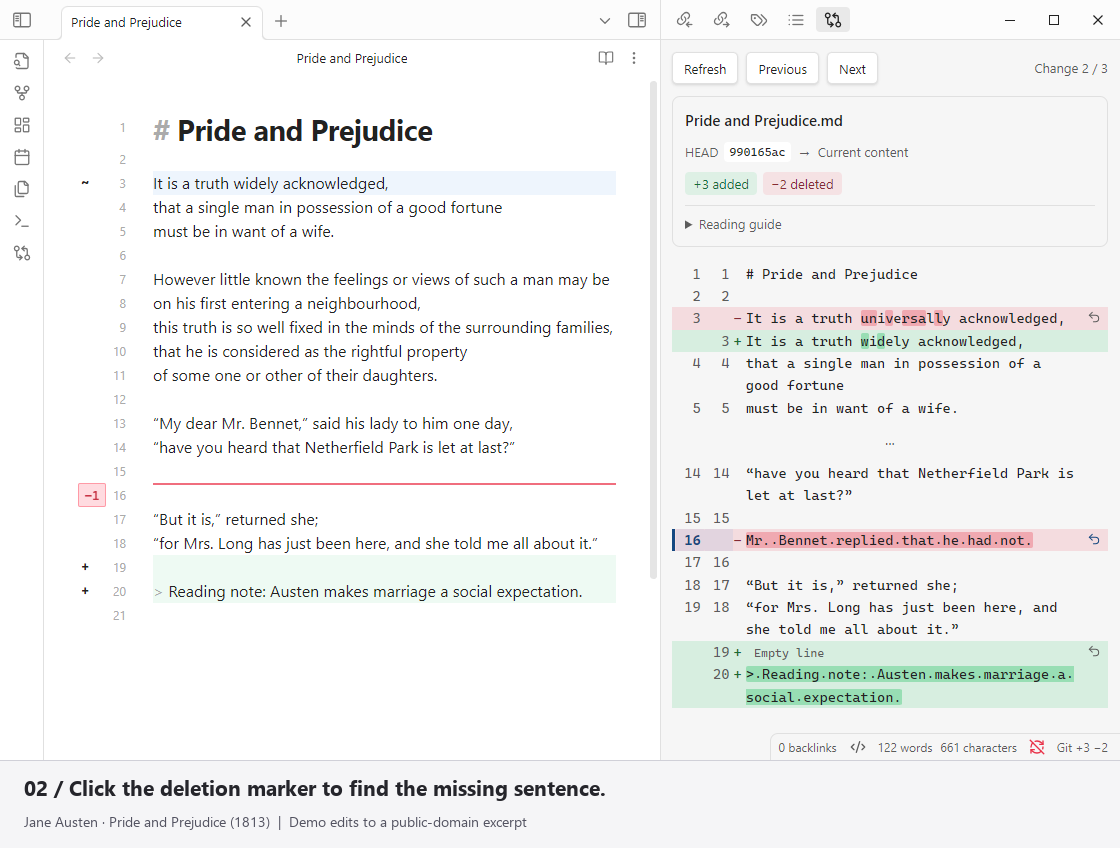
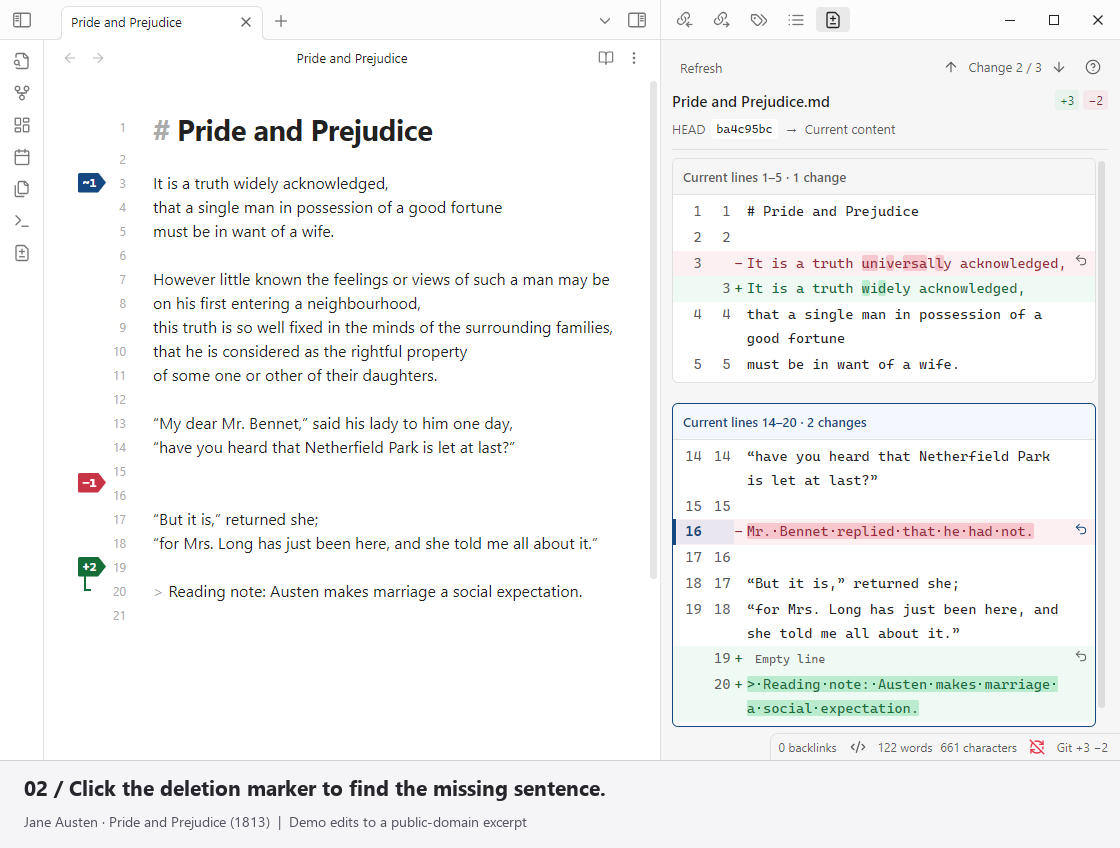
Release 0.4.0

diff --git a/scripts/record-demo.py b/scripts/record-demo.py
@@ -32,7 +32,7 @@ SCENES = [
 
 
 def git(vault, *command):
-    return subprocess.run(['git', *command], cwd=vault, check=True, capture_output=True, text=True).stdout.strip()
+    return subprocess.run(['git', *command], cwd=vault, check=True, capture_output=True, text=True, encoding='utf-8').stdout.strip()
 
 
 def stop_owned_process(process):

diff --git a/docs/personal-review-plan.md b/docs/personal-review-plan.md
@@ -7,7 +7,7 @@
 当前已完成需求文档及第一批审阅核心/存储代码，**尚未接入插件入口，不是可直接使用的个人版**。所有阶段完成后，仍需隔离 Obsidian vault 验证，不能以单元测试代替真实宿主验证。
 
 - 分支：`personal/review-workflow`，基线为 `208f410`（0.3.0）。
-- 未经明确授权，不自动 commit/push/合并主分支/tag/release，不调用社区发布工作流。个人分支检查点 `d3cc5a3` 已获授权提交、推送；范围旗标、差异配色与计数文案完成后，用户进一步授权提交、推送个人分支，再合并并推送 `main`。此次不创建标签或 release，完整审阅/GitLab 开发仍暂停。
+- 未经明确授权，不自动 commit/push/合并主分支/tag/release，不调用社区发布工作流。个人分支检查点 `d3cc5a3` 已获授权提交、推送；范围旗标、差异配色与计数文案完成后，用户进一步授权提交、推送个人分支，再合并并推送 `main`。合并完成后，用户已体验并进一步授权将现有 HEAD 对比界面改进作为 0.4.0 社区版发布（含版本提交、标签、签名草稿与正式发布）。完整审阅/GitLab 开发仍暂停，不纳入已开放功能。
 - 不升级版本号、修改最低宿主版本或依赖，除非实现确实需要并说明理由。
 - 不把产物安装到用户实际 vault，不覆盖现有插件安装。先使用隔离测试 vault。
 - 一次只完成一个可验证阶段，不并行修改同一工作区；本计划不要求子代理。
@@ -50,7 +50,7 @@
 - 已修复末尾竖列圆点：原连续空格伪元素脱离正文流、独立换行导致溢出。改为在空格自身的行片段绘制圆点，长空格正常折行，Tab 保留单个不换行箭头；不裁切、不过滤，复制仍为原始空格/Tab。不是恢复表格排版分类方案。
 - 检查点提交时的 `npm run check`：16 个文件 / **217 项测试**通过。当时中英文隔离宿主各 **36 项检查**通过，包含 280/440px 深浅主题、区块边界、三种模式下的标题/行号/前后导航、键盘焦点、正文选区、联动开关、超长项、纯正文复制和空格标记，以及原有还原/撤销、帮助与独立窗口检查。另有 **36 组 Chromium 空白标记布局回归**（280/440/480px、13/18px、中英文/Tab/长串空格）；长文 Live Preview 输入/外部更新的正文宽度和左边界变化为 **0px**。
 - 阅读模式测试等待宿主渲染就绪：切换模式的 Promise 完成不代表排版/滚动恢复已完成。早期切换后立即点击曾出现滚动偏移，不计为通过；最终验证不保证“模式切换尚未完成时同时导航”的竞争场景。未添加强制重复居中的定时器或私有渲染器补丁。
-- 证据及模式切换、自动化窗口激活/关闭的验证边界见 [demo.md](demo.md#personal-compact-panel-checks)。未安装真实 vault 或发布；后续已获用户授权提交、推送个人分支检查点，这些检查仍不是完整审阅工作流 A01–A28 验收。
+- 证据及模式切换、自动化窗口激活/关闭的验证边界见 [demo.md](demo.md#personal-compact-panel-checks)。该阶段未安装真实 vault 或发布；后续已获用户授权提交、推送个人分支检查点，这些检查仍不是完整审阅工作流 A01–A28 验收。
 
 ### 范围旗标（检查点后的本地调整）
 
@@ -64,14 +64,14 @@
 - 按用户截图采用红删/绿增文字，上下文仍为正常主题文字色；修改行继续旧红/新绿，字词底色保持局部强调。背景仍跟随 Obsidian 深浅主题，不照搬截图整块深绿背景或红色标注框。左侧正文不染色。
 - 保留 `+`/`−`、两列行号、原字号、选区复制、当前项蓝色导航强调，以及字词高亮开关。关闭字词底色后，红绿文字依然保留；阅读说明已同步中英文语义。
 - 该配色阶段 `npm run check` **224 项测试**通过；中英文隔离宿主各 **41 项检查**，涵盖 280/440px、源码/Live Preview 旗标、原生表格/折叠、空文档、复制/还原/撤销及独立窗口。默认浅色/深色的普通行、当前行及字词底色上，正文最小对比度分别约 **4.81:1 / 4.58:1**。不宣称任意第三方主题均通过。
-- 空白标记 **36 组布局回归**通过；最终长文输入/外部更新的正文宽度和左边界变化仍为 **0px**。证据目录见 [demo.md](demo.md#range-flags-and-diff-text-colors)。验收使用隔离 vault；随后用户已授权本轮提交、推送并合并 `main`，不包含安装真实 vault 或发布。
+- 空白标记 **36 组布局回归**通过；最终长文输入/外部更新的正文宽度和左边界变化仍为 **0px**。证据目录见 [demo.md](demo.md#range-flags-and-diff-text-colors)。验收使用隔离 vault；后续提交、推送与合并 `main` 已完成，现有界面改进已进一步获授权随 0.4.0 社区版发布，不安装真实 vault。
 
 ### 导航计数与区块标题
 
 - 右上角明确显示 `改动 1 / 3`（英文 `Change 1 / 3`）。标题去掉另一套区块编号，改为 `当前 109–116 行 · 2 处改动`；纯删除显示 HEAD 行范围。统计独立改动项，不统计增删行数。
 - 不拆分阅读区块、不合并操作范围。缓存行号偏移、语言切换和正文刷新会同步更新标题；保留选区期间仍展示旧快照的计数，并禁用过期入口。中英文帮助、tooltip/aria 与单复数文案同步。
 - 最新 `npm run check` **225 项测试**通过；中英文隔离宿主各 **42 项检查**，验证三处改动分为两个区块时逐项导航、单项还原，以及 280/440px 深浅主题下控件不重叠。常规头部高度仍为 117.5px，无额外布局/CSS调整。
-- 证据：英文 `.test-vault/host-iptw2fpn/`、中文 `.test-vault/host-eldsowom/`，含 `change-counts.png`。此次提交、推送与合并 `main` 已获用户授权；未安装真实 vault，不创建标签或发布。
+- 证据：英文 `.test-vault/host-iptw2fpn/`、中文 `.test-vault/host-eldsowom/`，含 `change-counts.png`。此次提交、推送与合并 `main` 已完成；现有功能已进一步获授权随 0.4.0 社区版发布，仍不安装真实 vault。
 
 ### 已验证的开发基线
 
@@ -240,7 +240,7 @@ npm test
 npm run check
 ```
 
-该命令包含 lint、测试、类型检查、构建和本地 release 产物一致性检查，**本身不推送或发布**。不设置发布标签、不调用 release workflow。若依赖不变，不无故重写 lockfile。
+该命令包含 lint、测试、类型检查、构建和本地 release 产物一致性检查，**本身不推送或发布**。完整审阅开发默认不设置发布标签、不调用 release workflow；本轮另获授权的 0.4.0 社区发布按仓库发布规范执行，只包含已启用的 HEAD 对比功能。若依赖不变，不无故重写 lockfile；此次仅为修复开发工具安全告警，定向更新 `source-map-js` 补丁。
 
 ### 隔离宿主验证
 

diff --git a/docs/releases/0.4.0.md b/docs/releases/0.4.0.md
@@ -1,0 +1,36 @@
+# 0.4.0 — Clearer diff markers and navigation
+
+## Highlights
+
+- **Range flags in the editor:** green `+n` and blue `~n` mark current added/modified line ranges; red `−n` marks a deletion boundary. No full-width deletion rule or source-text tint. A fixed 32px gutter keeps source wrapping stable during refreshes.
+- **Clearer diff text:** red old text, green added text, normal context, and stronger local word highlights in both default themes. Font-size and whitespace/highlight preferences remain available.
+- **More readable sidebar:** compact controls, bordered reading groups and an on-demand reading guide. Long whitespace markers no longer spill outside their rows.
+- **Explicit change counts:** navigation shows `Change 1 / 3`; group headings show a line range and their contained change count. Three changes can share two groups without combining their actions.
+- **Precise navigation:** previous/next, group headings and change line-number buttons reveal the selected change. Source navigation respects the following preference and current viewing mode; body text remains selectable for clean Markdown copying.
+
+## Safety and compatibility
+
+- Desktop Obsidian **1.8.0+** and local Git are still required. No runtime dependency or minimum-host-version change. The development-only `source-map-js` dependency is patched to 1.2.2.
+- Git operations remain read-only. Per-change restoration retains preview/confirmation, cancellation, fresh baseline/buffer checks and native editor undo.
+- This release compares with **local Git HEAD**. Accepted-baseline review and GitLab integration are not enabled.
+- Rendered tables and folded blocks use a first-change flag rather than an inaccurate internal range rail; the panel retains all independent changes and exact ranges. No automatic folding or content filtering is introduced.
+
+## Validation
+
+- 225 automated tests, lint, strict type checking, build and release consistency checks.
+- 42 isolated Obsidian checks per language (English and Chinese), including navigation, copying, restoration/undo and narrow light/dark layouts.
+- 36 whitespace-layout cases; covered long-document and large-deletion fixtures retain stable source width/left edge.
+- Default-theme text contrast is checked on regular, selected and changed-word backgrounds. Third-party themes and navigation concurrent with an unfinished mode switch remain outside that guarantee.
+- Production dependency audit reports no known vulnerabilities. Three moderate development-chain findings remain around the SDK's Moment dependency; these packages are not bundled into the plugin. The high-severity development-only source-map finding is patched.
+
+---
+
+## 中文更新说明
+
+- **编辑区范围旗标**：绿色 `+n`、蓝色 `~n` 表示当前新增/修改行数及范围；红色 `−n` 仅标记删除边界。移除正文通栏删除线和增改底色，固定 32px 标记区避免刷新时正文左右跳动。
+- **红删绿增文字**：右侧旧文使用红色、新增使用绿色，上下文保持正常文字色，字词保留局部底色；适配默认深浅主题，保留字号与空白标记设置。
+- **更清晰的阅读分组**：紧凑工具栏、完整区块边框、按需打开的阅读说明；修复长串空格圆点溢出。
+- **明确计数含义**：右上角显示“改动 1 / 3”，区块标题显示“行范围 · 本块改动数”，不再使用另一套区块编号；三处改动分在两个区块时，仍然逐项导航、逐项还原。
+- **精确定位**：前后导航、区块标题和改动行号可定位对应项，遵循原文联动设置；正文继续用于选区和复制。
+
+仍需桌面版 Obsidian **1.8.0+** 与本机 Git；不暂存、提交或推送笔记。还原保留预览确认、取消、最新正文/基准校验及编辑器撤销。**完整认可审阅工作流与 GitLab 对比尚未开放**。渲染表格/折叠块保守显示首项旗标，右侧保留全部精确差异，不自动折叠或过滤内容。

diff --git a/docs/demo.md b/docs/demo.md
@@ -4,7 +4,7 @@
 
 [Static preview](images/obsidian-demo.png) · [GIF file](images/obsidian-demo.gif)
 
-This English-only GIF records the **real plugin in desktop Obsidian**, not a browser imitation. There is no separate interactive demo page. The recording uses a newly generated vault, an independent app profile, and a real local Git repository. It does not use personal notes or an existing Obsidian profile.
+This English-only GIF records **Better MD Diff 0.4.0 in desktop Obsidian**, not a browser imitation. There is no separate interactive demo page. The recording uses a newly generated vault, an independent app profile, and a real local Git repository. It does not use personal notes or an existing Obsidian profile.
 
 ## What it shows
 
@@ -42,7 +42,7 @@ FFmpeg is resolved from `PATH`, or supplied with `--ffmpeg "/path/to/ffmpeg"`. T
 
 Outputs:
 
-- `docs/images/obsidian-demo.gif` — approximately 23 seconds, 1120 × 848, 8 fps, approximately 0.6 MiB; exact size/timing can vary between runs.
+- `docs/images/obsidian-demo.gif` — approximately 23 seconds, 1120 × 848, 8 fps, approximately 0.5 MiB; exact size/timing can vary between runs.
 - `docs/images/obsidian-demo.png` — static preview from the same capture.
 - `.test-vault/demo-*/report.json` — assertions, baseline identity, build hashes and media dimensions.
 - `.test-vault/demo-*/raw/` and `frames.json` — original host frames and capture timestamps.
@@ -138,4 +138,10 @@ Unit coverage checks three changes across two groups, singular/plural English, l
 
 Evidence: `.test-vault/host-iptw2fpn/` (English) and `.test-vault/host-eldsowom/` (Chinese), including `change-counts.png`. These use generated notes in fresh profiles, not the user's screenshot content or real vault.
 
-The published GIF above predates these personal changes and has not been regenerated. The earlier personal-branch checkpoint `d3cc5a3` was initially committed/pushed without a main-branch merge or release. The user has now authorized committing/pushing the follow-up range flags, text colors and count labels, then merging/pushing the personal branch into `main`. This includes the earlier review foundations, which remain unconnected to the plugin entrypoint; it is not a completed review workflow. No real-vault installation, version bump, release tag or publication is included.
+### 0.4.0 community release
+
+The GIF and poster above have now been regenerated with the 0.4.0 build. Evidence is in `.test-vault/demo-kzv9o0yu/`: all six recording checks passed, including exact editor content and unchanged Git HEAD/index. The GIF is 1120 × 848, 184 frames, 23.01 seconds and 506,242 bytes. The Windows recorder explicitly decodes the UTF-8 Git fixture rather than relying on the system GBK locale.
+
+The 0.4.0 candidate also passed `npm run check` (225 tests), fresh English/Chinese host runs (`host-reu7uenr` / `host-fmybq3_m`, 42 checks each), 36 whitespace cases (`whitespace-w3r0ri7v`) and long-document/1,000-line-deletion stability runs (`stability-fmt_9xn4` / `stability-hqelqfer`). One earlier Chinese run (`host-jgkkehk1`) stopped when its renderer execution context was destroyed; that run is retained as failed evidence, not counted as a pass. No product workaround was added for that interruption.
+
+The earlier personal work has been merged into `main`, and the user has authorized the 0.4.0 community release after trying the updated UI. Both READMEs now document flags, colors, change/group counts and navigation. Only the implemented local-HEAD workflow is advertised; the review/storage foundations remain unconnected to the entrypoint and GitLab is not enabled. Validation and recording still use isolated vaults; no real-vault installation is part of this process.

diff --git a/README.md b/README.md
@@ -6,21 +6,42 @@ Compare Markdown with **Git HEAD (the latest commit)** in Obsidian, highlight ch
 
 ![Obsidian demo: edit, inspect a deletion, restore one change, and undo](docs/images/obsidian-demo.gif)
 
-Recorded in Obsidian using a public-domain excerpt from *Pride and Prejudice* with demonstration edits.
+Recorded with Better MD Diff 0.4.0 in desktop Obsidian using a public-domain excerpt from *Pride and Prejudice* with demonstration edits. [Demo details](docs/demo.md) · [0.4.0 release notes](docs/releases/0.4.0.md).
 
 ## Installation
 
 Requires desktop **Obsidian 1.8.0+** and a local **Git** installation.
 
-Open **Settings → Community plugins → Browse**, search for **Better MD Diff**, install it, and enable it.
+Open **Settings → Community plugins → Browse**, search for **Better MD Diff**, install it, and enable it. If already installed, check for updates under **Community plugins** and update Better MD Diff.
 
 ## Usage
 
 1. Edit a Git-tracked Markdown note in Source mode or Live Preview.
-2. Click a gutter marker or the Git diff ribbon icon to review changes: **red is old text, green is added text**.
-3. Click a restore arrow and confirm the preview. Press **Ctrl/Cmd+Z** in the source editor to undo.
+2. Click an editor flag or the **Git diff** ribbon icon to review changes. In the panel, **red text is old content, green text is added content**; stronger local backgrounds highlight changed words.
+3. Use **↑ / ↓** to visit individual changes. Click a group heading to select its first change, or a change's line-number button to select that item. Source navigation follows your settings.
+4. Click a restore arrow and confirm the preview. Press **Ctrl/Cmd+Z** in the source editor to undo.
 
-A contiguous multi-line replacement is one change. The plugin never stages, commits, or pushes. Back up important notes first.
+### Editor flags
+
+| Flag | Meaning |
+| --- | --- |
+| Green `+n` | `n` added lines in the current note |
+| Blue `~n` | `n` modified lines in the current note |
+| Red `−n` | `n` deleted old lines, marked at their boundary—not as a deleted following line |
+
+Added/modified ranges have one flag at their start and a thin gutter rail. Source text stays untinted, and the fixed-width gutter avoids horizontal shifts during refreshes. Large counts keep their full value in tooltips. Rendered tables and folded blocks show the first contained change flag; use the panel for exact ranges. Flags appear in Source mode and Live Preview, not Reading view.
+
+### Changes versus reading groups
+
+**Change 1 / 3** counts independent edits, not the number of boxes. Nearby edits share context: two groups may contain **2 changes** and **1 change**. Their headings show the line range and contained change count. A contiguous multi-line replacement is one change; grouping never enlarges its restoration scope.
+
+Text remains selectable and copies as original Markdown, without controls or line numbers. Settings retain font size, changed-word/whitespace markers, and source-following options; the **?** button explains the display.
+
+The plugin never stages, commits, or pushes. Restoration checks the current note and Git baseline before applying one undoable edit. Back up important notes first.
+
+## Scope
+
+Version 0.4.0 compares against **local Git HEAD**. Accepted-baseline review and GitLab comparison are not yet available.
 
 ## License
 

diff --git a/README.zh-CN.md b/README.zh-CN.md
@@ -6,21 +6,42 @@
 
 ![Obsidian demo: edit, inspect a deletion, restore one change, and undo](docs/images/obsidian-demo.gif)
 
-《傲慢与偏见》节选及演示改动，英文 Obsidian 实录。
+《傲慢与偏见》节选及演示改动，使用插件 0.4.0 在桌面版英文 Obsidian 中实录。[演示说明](docs/demo.md) · [0.4.0 更新说明](docs/releases/0.4.0.md)。
 
 ## 安装
 
 需要桌面版 **Obsidian 1.8.0+** 和本机 **Git**。
 
-在“设置 → 第三方插件 → 浏览”中搜索 **Better MD Diff**，安装并启用。
+在“设置 → 第三方插件 → 浏览”中搜索 **Better MD Diff**，安装并启用。已安装的用户可在第三方插件设置中检查更新，再更新 Better MD Diff。
 
 ## 使用
 
 1. 打开已被 Git 跟踪的 Markdown 文档，在源码编辑或实时预览中修改。
-2. 点击侧边差异标记或 Git 差异图标查看对照：**红色是旧文，绿色是新增内容**。
-3. 点击行尾还原箭头，核对预览后确认；在原文编辑器按 **Ctrl/Cmd+Z** 撤销。
+2. 点击编辑区旗标或左侧 **Git 差异**图标查看对照。面板中，**红色文字是旧文，绿色文字是新增内容**；更深的局部底色突出变化字词。
+3. 用 **↑ / ↓** 逐项导航。点击区块标题选中其中第一项，点击改动项的行号按钮选中该项；是否同步定位左侧原文由设置控制。
+4. 点击行尾还原箭头，核对预览后确认；在原文编辑器按 **Ctrl/Cmd+Z** 撤销。
 
-连续多行替换算一项改动。插件不会暂存、提交或推送；重要笔记请先备份。
+### 编辑区旗标
+
+| 旗标 | 含义 |
+| --- | --- |
+| 绿色 `+n` | 当前文档新增了 `n` 行 |
+| 蓝色 `~n` | 当前文档有 `n` 行被修改 |
+| 红色 `−n` | 旧文删除了 `n` 行，仅标记删除边界，不把下一行视为删除内容 |
+
+新增/修改范围只在起点显示旗标，并用侧边细线标出范围。正文不染色，固定宽度的标记区避免刷新时正文左右跳动。大计数的完整值保留在悬停提示中。渲染后的表格、折叠块显示所含第一项改动的旗标，精确范围请看右侧面板。旗标只在源码编辑和实时预览中显示，阅读模式不显示。
+
+### 改动数与阅读区块
+
+**改动 1 / 3** 统计独立改动项，不是卡片数量。相邻改动会共用上下文，因此两个区块可以分别包含 **2 处改动**和 **1 处改动**；标题会标明行范围与本块改动数。连续多行替换算一项改动，阅读分组不会扩大还原范围。
+
+正文可拖选并复制为原始 Markdown，不带控件和行号。设置中保留字号、字词/空白标记、原文联动选项；点击 **?** 查看阅读说明。
+
+插件不会暂存、提交或推送。还原前会校验当前正文与 Git 基准，再执行一次可撤销的编辑；重要笔记请先备份。
+
+## 当前范围
+
+0.4.0 对比的是**本地 Git HEAD**。基于认可内容的审阅工作流、GitLab 版本对比尚未开放。
 
 ## 许可证
 

diff --git a/docs/personal-review-requirements.md b/docs/personal-review-requirements.md
@@ -2,7 +2,7 @@
 
 - **状态**：核心需求已经用户确认；本文中的“技术默认建议”尚属设计，不等于新增需求已经确认，也不表示功能已实现。
 - **开发分支**：`personal/review-workflow`，从 `main` 的 `208f410`（0.3.0）创建。
-- **使用范围**：个人桌面端使用，不发布 Obsidian 社区版本。用户已授权提交、推送个人分支及后续界面改进，并进一步授权合并、推送 `main`；不创建发布标签或 release，不表示完整审阅功能已经接入。
+- **使用范围**：本文定义个人桌面端审阅方案，完整工作流尚未接入。个人分支与界面改进已按授权合并至 `main`；用户进一步授权已启用的 HEAD 对比界面改进随 0.4.0 社区版发布（含标签与 release）。这不表示本文的完整审阅/GitLab 功能已经开放。
 - **术语**：[CONTEXT.md](../CONTEXT.md)。实施顺序见[开发计划](personal-review-plan.md)。
 
 ## 1. 用户场景与目标
@@ -189,7 +189,7 @@
 - 本版保留现有文档大小/行数限制；超限文档明确报告，不默默跳过并标记认可。
 - 未通过宿主实测前，不能宣称凭证存储加密、跨域重定向安全、跨进程写入原子性或真实公司 GitLab 已联通。
 - 验收先用隔离 vault 和虚构文档，不对用户实际 vault 运行破坏性场景。连接真实公司 GitLab仅在用户配置并授权的环境进行；不索取聊天中的令牌。
-- 不因个人版而删除现有安全检查、测试、国际化或社区发布工作流；但本次不触发发布。
+- 不因个人版而删除现有安全检查、测试、国际化或社区发布工作流。完整审阅开发不触发发布；另获授权的 0.4.0 仅发布已启用的 HEAD 对比功能，并沿用现有签名发布工作流。
 
 ## 7. 参考依据
 

diff --git a/docs/community-review.md b/docs/community-review.md
@@ -38,6 +38,12 @@
 
 **GitHub artifact attestations**：工作流已经配置，但只有在 GitHub 上对新标签成功执行并发布其原始签署附件后，才能验证来源证明。不应声称未执行的工作流已经清除了线上提示。
 
+## 0.4.0 发布前依赖核查
+
+- `npm audit --omit=dev` 未发现已知生产依赖漏洞；这不是整个工具链或宿主“零风险”的声明。
+- 开发依赖 `source-map-js` 从 1.2.1 更新至 1.2.2，修复 [GHSA-68fv-2mgg-jv7q](https://github.com/advisories/GHSA-68fv-2mgg-jv7q) 的索引 source-map 拒绝服务问题；未改变运行时依赖或最低 Obsidian 版本。锁文件通过 npm 10 重新生成兼容元数据。
+- 完整审计仍有三条中等风险的开发链条目：SDK 依赖的 Moment，以及传播至 `obsidian`、`eslint-plugin-obsidianmd` 的提示（[GHSA-4p3w-j4w9-5jqw](https://github.com/advisories/GHSA-4p3w-j4w9-5jqw)）。这些 npm 包不随插件打包，插件也未调用该 locale 接口；未为了清零审计而采用 `npm audit fix --force` 建议的旧版 lint 插件回退。后续 SDK/工具链升级应独立验证。
+
 ## 如何复核
 
 ```bash
